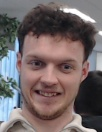
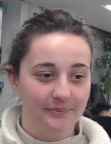
correct cors stt

diff --git a/STT/stt.py b/STT/stt.py
@@ -4,25 +4,48 @@ import threading
 import time
 from voice_recorder import start_recording
 from whisperv3 import transcribe_audio, init
-from flask import Flask, Response
+from flask import Flask, Response, request
+from flask_cors import CORS
 
 flaskApp = Flask(__name__)
+CORS(flaskApp)
 is_next_unknown_person = False
 
-@flaskApp.route('/start_session', methods=['GET'])
+@flaskApp.route('/start_session', methods=['GET', 'OPTIONS'])
 def start_session():
-    run_stt_with_timeout()
-    return Response(
-            status=200,
-        ) 
+    if request.method == 'OPTIONS':
+        return Response(status=200, headers={
+            "Access-Control-Allow-Origin": "*",
+            "Access-Control-Allow-Methods": "POST, OPTIONS",
+            "Access-Control-Allow-Headers": "Content-Type"
+        })
+    
+    try:
+        # Lancer le STT dans un thread séparé pour ne pas bloquer la réponse
+        thread = threading.Thread(target=run_stt_with_timeout)
+        thread.daemon = True
+        thread.start()
+        
+        return Response(status=200, headers={"Access-Control-Allow-Origin": "*"}) 
+    except Exception as e:
+        print(f"Error in start_session: {e}", flush=True)
+        import traceback
+        traceback.print_exc()
+        return Response(status=500, headers={"Access-Control-Allow-Origin": "*"}) 
 
-@flaskApp.route('/unknown_person', methods=['GET'])
+@flaskApp.route('/unknown_person', methods=['GET', 'OPTIONS'])
 def unknown_person():
+    if request.method == "OPTIONS":
+        return Response(status=200, headers={
+            "Access-Control-Allow-Origin": "*",
+            "Access-Control-Allow-Methods": "POST, OPTIONS",
+            "Access-Control-Allow-Headers": "Content-Type"
+        })
+    
     global is_next_unknown_person
     is_next_unknown_person = True
-    return Response(
-            status=200,
-        ) 
+
+    return Response(status=200, headers={"Access-Control-Allow-Origin": "*"}) 
 
 
 logging.basicConfig(

diff --git a/Avatar/src/server.py b/Avatar/src/server.py
@@ -14,7 +14,7 @@ CORS(app)
 socketio = SocketIO(app, cors_allowed_origins="*")
 
 DATA_FOLDER = os.path.join(os.path.dirname(__file__), 'data')
-IMG_PATH = './img.jpg'
+IMG_PATH = '/app/captures/new_user.jpg'
 GLB_BASE_PATH = os.path.join(DATA_FOLDER, 'avatar_custom_20260108_173302.glb')
 
 model_id = "openai/clip-vit-large-patch14"
@@ -128,6 +128,9 @@ def trigger():
         })
         return jsonify({"status": "success", "features": features})
     except Exception as e:
+        print(f"Error in /trigger: {e}", flush=True)
+        import traceback
+        traceback.print_exc()
         socketio.emit('avatar_update', {'status': 'error', 'message': str(e)})
         return jsonify({"status": "error", "message": str(e)}), 500
 

diff --git a/FaceRecognition/python/faceRecognition.py b/FaceRecognition/python/faceRecognition.py
@@ -158,7 +158,7 @@ def start_video_capture():
             best_bbox = (x1, y1, x2, y2)
 
     # Save cropped image of the best face
-    if best_bbox is not None and best_name_size != "Inconnu":
+    if best_bbox is not None:
         x1, y1, x2, y2 = best_bbox
 
         # Ensure coordinates stay within frame boundaries

diff --git a/STT/voice_recorder.py b/STT/voice_recorder.py
@@ -6,7 +6,7 @@ import time
 # Audio configuration
 SAMPLE_RATE = 48000
 CHANNELS = 1
-INPUT_DEVICE = 4
+INPUT_DEVICE = 9
 BLOCK_DURATION = 0.1  # seconds
 SILENCE_THRESHOLD = 0.015  # volume threshold
 MAX_SILENCE_DURATION = 1.5  # seconds before stopping
